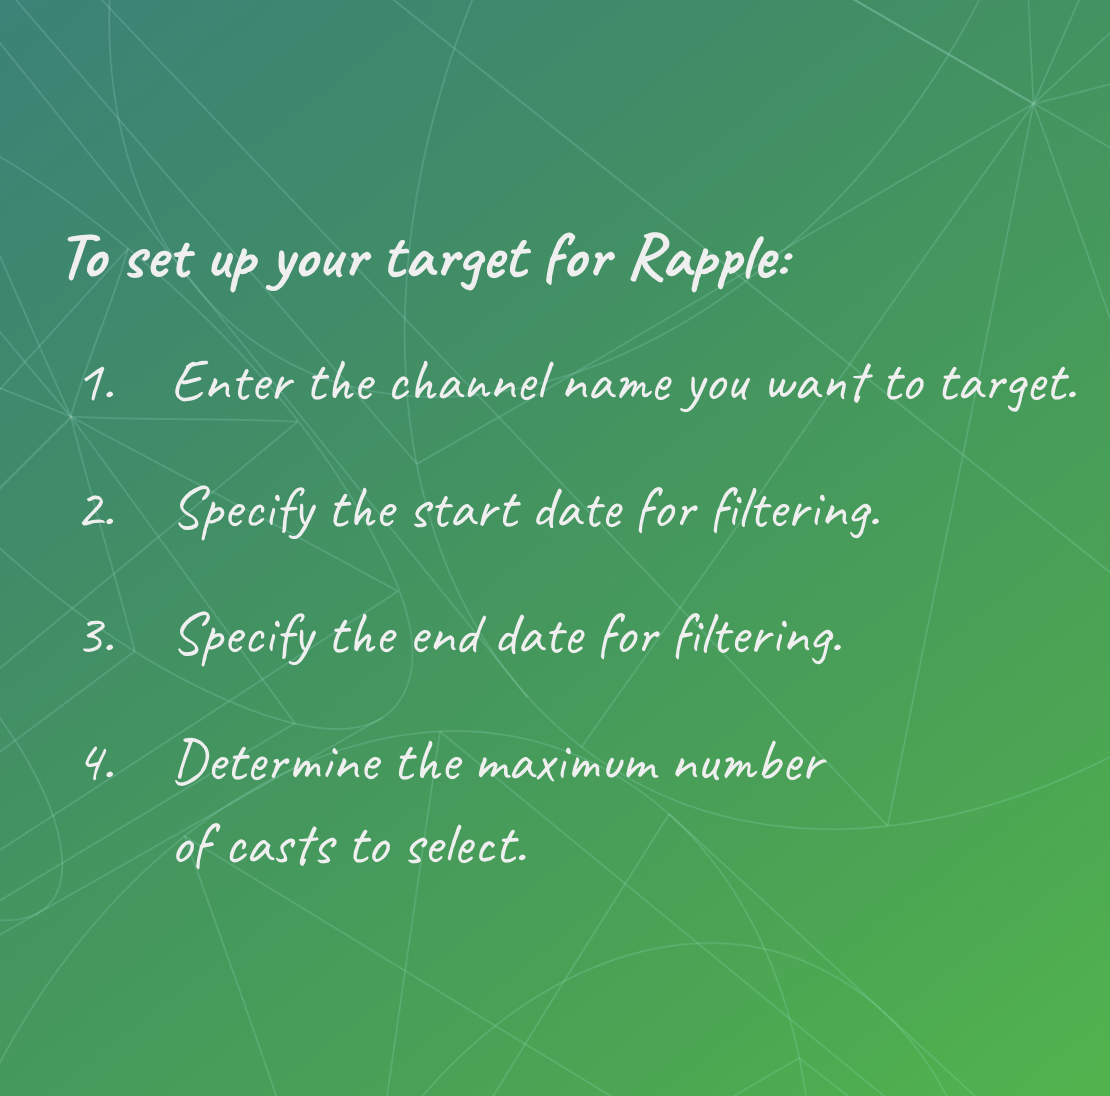
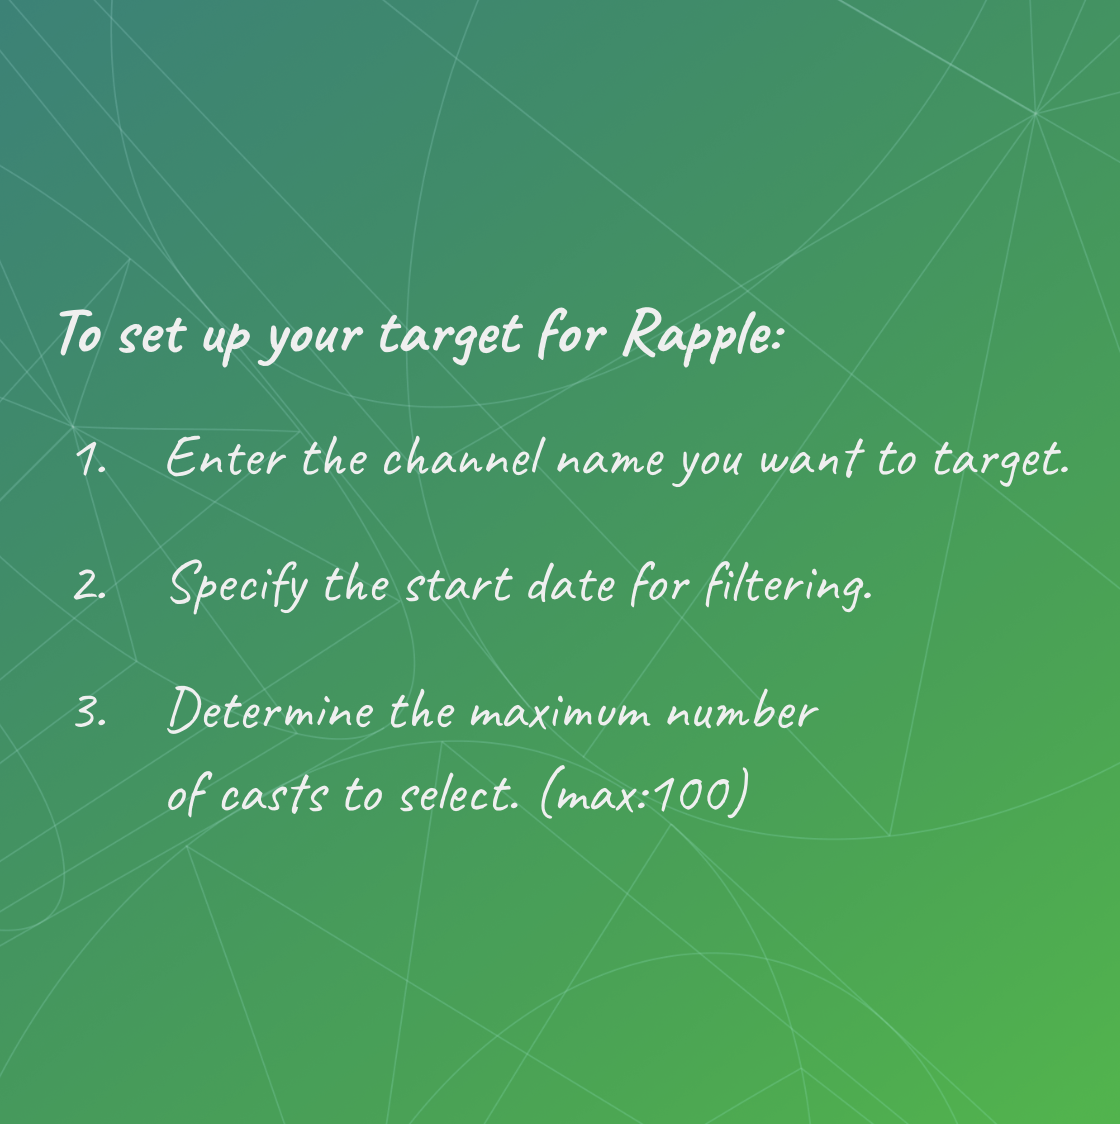
postLum0xTestFrameValidation 추가

diff --git a/app/utils/helpers.ts b/app/utils/helpers.ts
@@ -2,12 +2,9 @@ import { Lum0x } from "lum0x-sdk";
 
 Lum0x.init(process.env.LUM0X_API_KEY || "");
 
-let cursor: string | undefined;
-
 export async function getUserPfpUrl(fid: number): Promise<string> {
   const res = await Lum0x.farcasterUser.getUserByFids({ fids: String(fid) });
   const user = res.users[0];
-
   return user.pfp_url;
 }
 
@@ -35,32 +32,25 @@ export async function postLum0xTestFrameValidation(fid: number, path: string) {
 export async function getUser(
   channel: string | undefined,
   startDate: string | undefined,
-  endDate: string | undefined,
-  limit: string | undefined
+  limit: number | undefined
 ) {
   let res = await Lum0x.farcasterFeed.getFeed({
     feed_type: "filter",
-    filter_type: "parent_url",
-    parent_url: "https://warpcast.com/~/channel/" + channel,
-    limit: Number(limit),
+    filter_type: "channel_id",
+    channel_id: channel,
+    limit: limit,
   });
 
   let startDateUnix = startDate && new Date(startDate).getTime();
-  let endDateUnix = endDate && new Date(endDate).getTime();
-  let filteredCasts = res.casts.filter((cast: { timestamp: number }) => {
-    //2024-09-02T00:09:30
-    //start와 end날짜가 같은경우 예외처리
-    if (startDateUnix === endDateUnix) {
-      new Date(cast.timestamp).getTime() < Number(endDateUnix);
-    } else {
-      Number(startDateUnix) < new Date(cast.timestamp).getTime() &&
-        new Date(cast.timestamp).getTime() < Number(endDateUnix);
-    }
-  });
+  let filteredCasts = res.casts.filter(
+    (cast: { timestamp: number }) =>
+      Number(startDateUnix) < new Date(cast.timestamp).getTime()
+  );
 
   if (filteredCasts.length === 0) {
-    return { fid: 321762, display_name: "Amy" };
+    return { fid: 1, display_name: "" };
   }
+
   let authors = filteredCasts.map((cast: any) => cast.author.fid);
   let authorSet: Set<any> = new Set(authors);
 
@@ -70,66 +60,3 @@ export async function getUser(
 
   return { fid: randomArray[0], display_name: displayName };
 }
-// farsightsummit 채널에서 9월 2일 이후 캐스트 작성자 중 한명 임의 선택 -> fid,display_name 반환
-// export async function getUserFromDate(
-//   startDate: string | undefined,
-//   endDate: string | undefined
-// ) {
-//   let res = await Lum0x.farcasterFeed.getFeed({
-//     feed_type: "filter",
-//     filter_type: "parent_url",
-//     parent_url: "https://warpcast.com/~/channel/farsightsummit",
-//   });
-//   let startDateUnix = startDate && new Date(startDate).getTime();
-//   let endDateUnix = endDate && new Date(endDate).getTime();
-//   let filteredCasts = res.casts.filter((cast: { timestamp: number }) => {
-//     //2024-09-02T00:09:30
-//     //start와 end날짜가 같은경우 예외처리
-//     if (startDateUnix === endDateUnix) {
-//       new Date(cast.timestamp).getTime() < Number(endDateUnix);
-//     } else {
-//       Number(startDateUnix) < new Date(cast.timestamp).getTime() &&
-//         new Date(cast.timestamp).getTime() < Number(endDateUnix);
-//     }
-//   });
-//   if (filteredCasts.length === 0) {
-//     return { fid: 321762, display_name: "Amy" };
-//   }
-//   let authors = filteredCasts.map((cast: any) => cast.author.fid);
-//   let authorSet: Set<any> = new Set(authors);
-
-//   const authorList = Array.from(authorSet);
-//   const randomArray = authorList.sort(() => Math.random() - 0.5);
-//   const displayName = await getUserDisplayName(randomArray[0]);
-
-//   return { fid: randomArray[0], display_name: displayName };
-// }
-// //type이 channel인경우
-// export async function getUserFromChannel(channel: string | undefined) {
-//   let res = await Lum0x.farcasterFeed.getFeed({
-//     feed_type: "filter",
-//     filter_type: "parent_url",
-//     parent_url: "https://warpcast.com/~/channel/" + channel,
-//   });
-
-//   let filteredCasts = res.casts.filter(
-//     (cast: { channel: { id: string | undefined } }) =>
-//       channel === cast.channel.id
-//   );
-
-//   if (filteredCasts.length === 0) {
-//     return { fid: 321762, display_name: "Amy" };
-//   }
-
-//   let authors = filteredCasts.map((cast: any) => cast.author.fid);
-//   let authorSet: Set<any> = new Set(authors);
-
-//   const authorList = Array.from(authorSet);
-//   const randomArray = authorList.sort(() => Math.random() - 0.5);
-//   const displayName = await getUserDisplayName(randomArray[0]);
-
-//   return { fid: randomArray[0], display_name: displayName };
-// }
-// export async function main(fid: number) {
-//     return await weightedRaffle(fid)
-// }

diff --git a/app/api/[[...routes]]/route.tsx b/app/api/[[...routes]]/route.tsx
@@ -10,13 +10,9 @@ import {
   getUserDisplayName,
   getUserPfpUrl,
   getUser,
+  postLum0xTestFrameValidation,
 } from "../../utils/helpers";
 import { getShareImage } from "../../ui/share";
-
-let channel: string | undefined;
-let startDate: string | undefined;
-let endDate: string | undefined;
-let limit: string | undefined;
 
 const app = new Frog({
   assetsPath: "/",
@@ -28,6 +24,11 @@ const app = new Frog({
     height: 800,
     width: 800,
   },
+  initialState: {
+    channel: "",
+    startDate: "",
+    limit: 25,
+  },
 });
 
 app.frame("/", (c) => {
@@ -37,8 +38,10 @@ app.frame("/", (c) => {
   });
 });
 
-app.frame("/channel", (c) => {
-  channel = c.inputText;
+app.frame("/channel", async (c) => {
+  const fid = c.frameData?.fid;
+  await postLum0xTestFrameValidation(Number(fid), "channel");
+
   return c.res({
     image: "/Steps.png",
     intents: [
@@ -49,32 +52,32 @@ app.frame("/channel", (c) => {
   });
 });
 
-app.frame("/start-date", (c) => {
-  startDate = c.inputText;
+app.frame("/start-date", async (c) => {
+  const fid = c.frameData?.fid;
+  await postLum0xTestFrameValidation(Number(fid), "start-date");
+
+  c.deriveState((previousState: any) => {
+    previousState.channel = c.inputText;
+  });
+
   return c.res({
     image: "/Steps.png",
     intents: [
       <TextInput placeholder="Enter Start Date... 2024-09-01" />,
       <Button action="/channel">Back</Button>,
-      <Button action="/end-date">Next</Button>,
-    ],
-  });
-});
-
-app.frame("/end-date", (c) => {
-  endDate = c.inputText;
-  return c.res({
-    image: "/Steps.png",
-    intents: [
-      <TextInput placeholder="Enter End Date... 2024-09-03" />,
-      <Button action="/start-date">Back</Button>,
       <Button action="/limit">Next</Button>,
     ],
   });
 });
 
-app.frame("/limit", (c) => {
-  limit = c.inputText;
+app.frame("/limit", async (c) => {
+  const fid = c.frameData?.fid;
+  await postLum0xTestFrameValidation(Number(fid), "limit");
+
+  c.deriveState((previousState: any) => {
+    previousState.endDate = c.inputText;
+  });
+
   return c.res({
     image: "/Steps.png",
     intents: [
@@ -86,6 +89,10 @@ app.frame("/limit", (c) => {
 });
 
 app.frame("/raffle", (c) => {
+  let state = c.deriveState((previousState: any) => {
+    previousState.limit = parseInt(c.inputText ? c.inputText : "25", 10);
+  });
+
   return c.res({
     image: "/Default.png",
     intents: [
@@ -95,13 +102,14 @@ app.frame("/raffle", (c) => {
   });
 });
 
-app.frame("/result", async (c) => {
-  const winner: Participant = await getUser(channel, startDate, endDate, limit);
+app.frame("/result", async (c: any) => {
+  const { channel, startDate, limit } = c.previousState;
+  const winner: Participant = await getUser(channel, startDate, limit);
   const displayName = await getUserDisplayName(winner.fid);
   const pfpUrl = await getUserPfpUrl(winner.fid);
 
   return c.res({
-    image: getShareImage(displayName[0], pfpUrl),
+    image: getShareImage(displayName, pfpUrl),
     intents: [<Button action="/">Home</Button>],
   });
 });

diff --git a/app/ui/share.tsx b/app/ui/share.tsx
@@ -2,6 +2,7 @@
 import { Box } from "../api/[[...routes]]/ui";
 
 export function getShareImage(displayName?: string, pfpUrl?: string) {
+  console.log(displayName);
   return (
     <Box
       grow
@@ -28,12 +29,12 @@ export function getShareImage(displayName?: string, pfpUrl?: string) {
         style={{
           position: "absolute",
           display: "flex",
-          top: 730,
-          left: 450,
-          width: 300,
+          top: 600,
+          left: 350,
+          width: 500,
           height: 45,
           color: "white",
-          fontSize: 54,
+          fontSize: 44,
           fontFamily: "coinbase",
         }}
       >
@@ -43,8 +44,8 @@ export function getShareImage(displayName?: string, pfpUrl?: string) {
         style={{
           position: "absolute",
           display: "flex",
-          top: 300,
-          left: 380,
+          top: 180,
+          left: 200,
           width: "28%",
           fontFamily: "Poppins",
         }}
